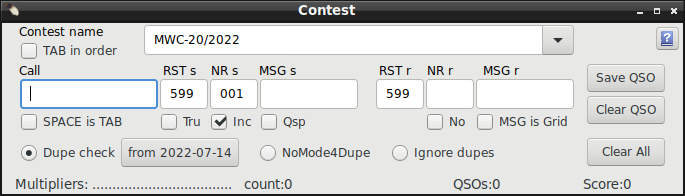
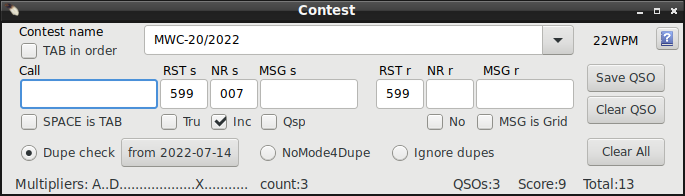
Added total score and made rest of view band based

diff --git a/help/contest.html b/help/contest.html
@@ -148,6 +148,10 @@ After that every qso saving will update status bar view.
 <br>Also numbers 0..9 are multipliers so it is assumed that in case of additional part of suffix exists (like OH1KH/M OH1KH/OH9) then
  the last letter of additional part is counted as multiplier. (This was asked from organizer, but newer answered).
 </br>
+Only bands 80M and 40M and mode CW are counted.(See rules of contest) The view is based for current band. How ever <b>Total</b> shows score from both bands.
+If you have to close Cqrlog during contest and when you have contest window open again press <b>2xESC</b> on 80M band and change to 40M and press again <b>2xESC</b>.
+This updates the Total counter.
+<br><br>
 </p>
 <p>
 </br>
